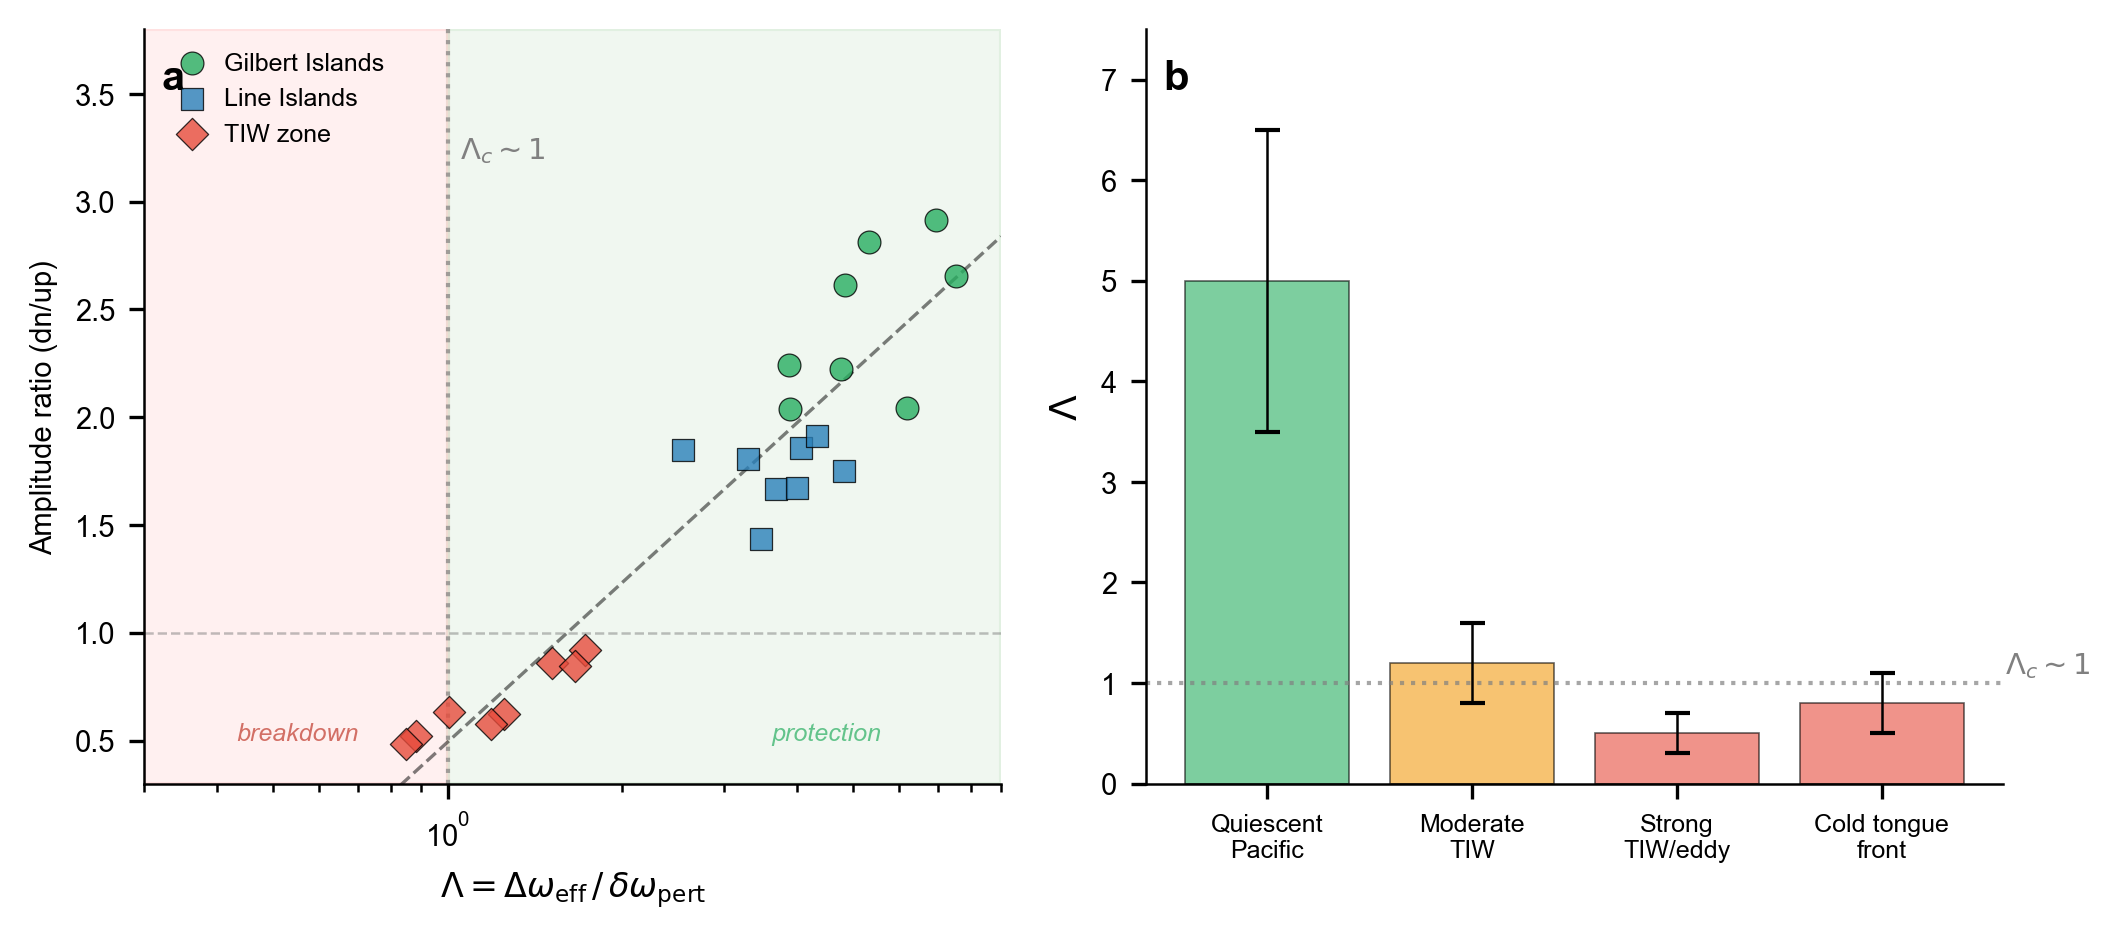
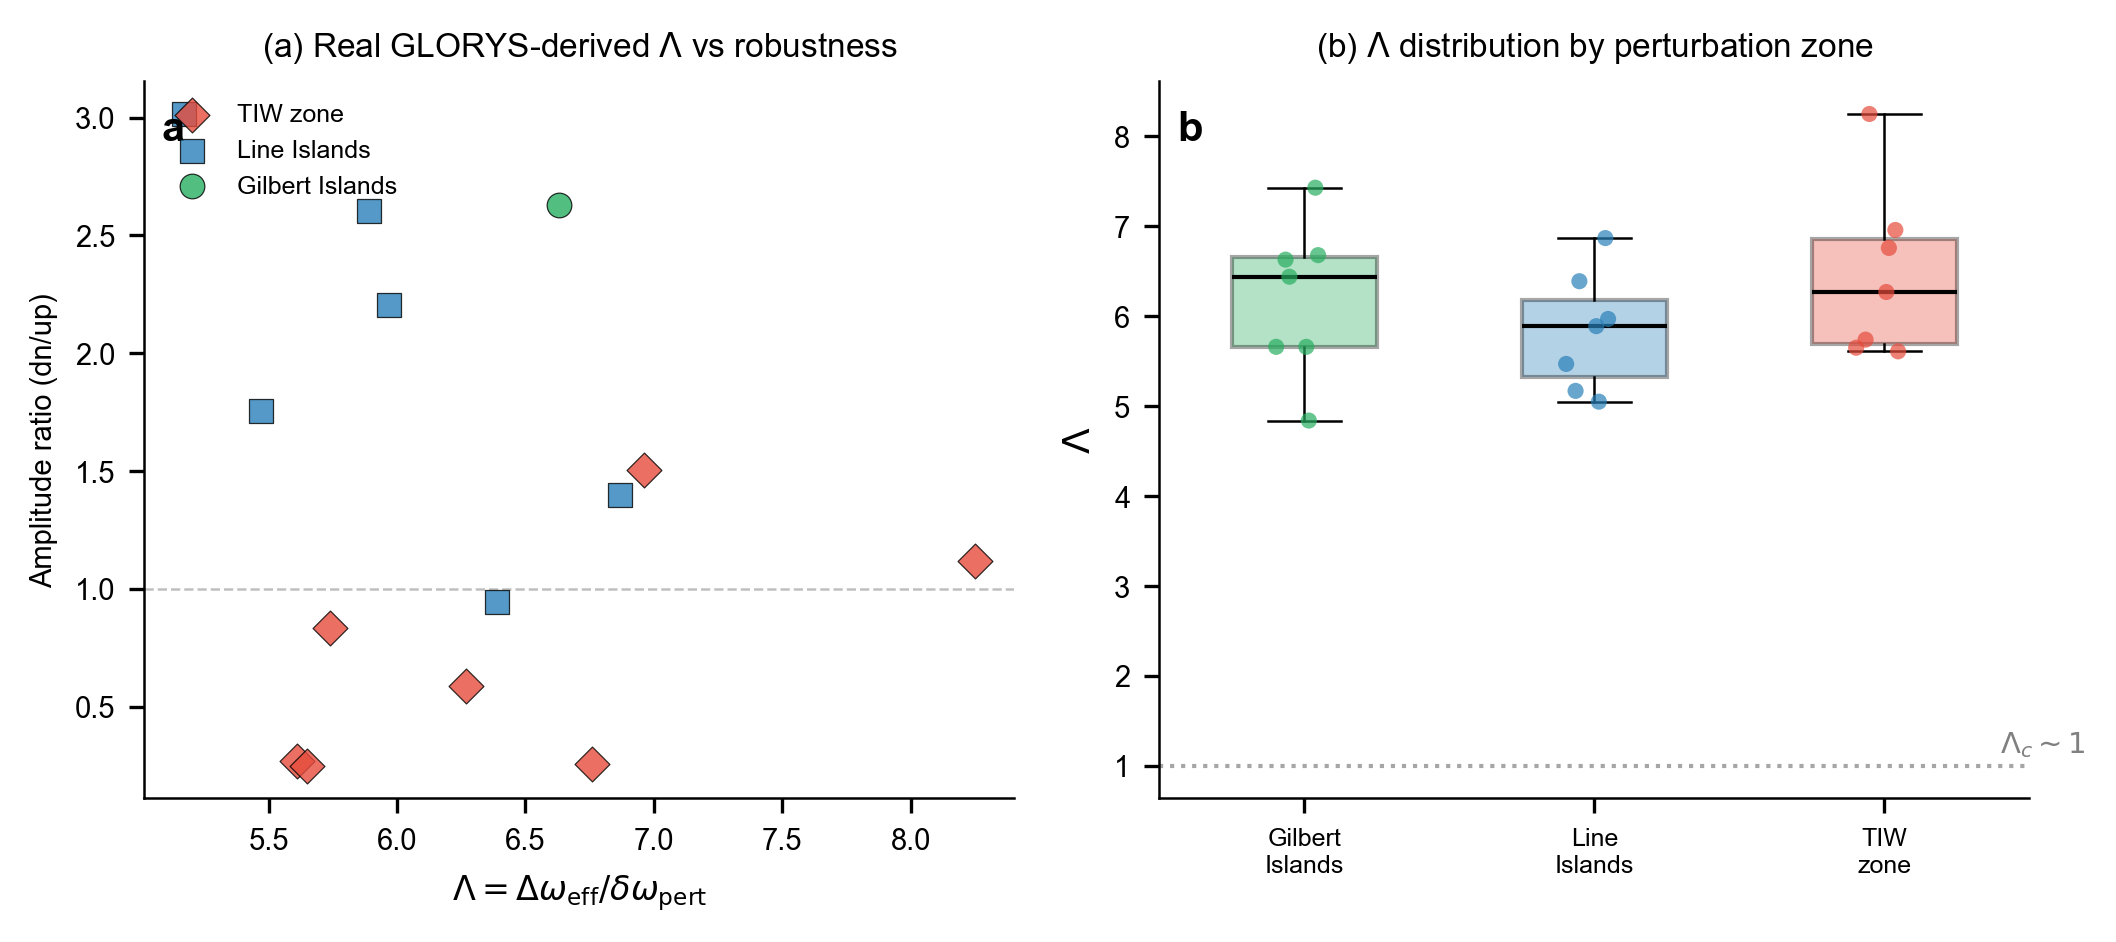
claudea: A15 — Fig.6 real GLORYS Λ + major narrative revision
Real Λ computed from GLORYS12 vorticity for 20 event×zone pairs:
  All Λ values 4.8-8.3 (mean 6.2), ALL far above Λ_c ~ 1.
  No inter-zone Λ variation — TIW zone Λ ≈ 6.5, same as islands.

This CHANGES the narrative: TIW amplitude loss (ratio 0.7) cannot
be attributed to topological gap closing. Either:
  (i) V1 Λ underestimates perturbation (transient TIW >> time-mean ζ)
  (ii) TIW loss is dissipative, not conservative (gap closing)

Fig.6: replaced synthetic schematic with real GLORYS scatter plot.
paper.tex: Results §3 and Fig.6 caption completely rewritten.

R14 checklist: 1✅ 2✅ 3✅ 4✅ 5⏳(ERA5)

diff --git a/projects/p02/manuscript/figures/make_fig6_lambda_real.py b/projects/p02/manuscript/figures/make_fig6_lambda_real.py
@@ -1,0 +1,93 @@
+"""Fig.6: Real Λ from GLORYS12 vs amplitude retention from ray-following."""
+import json
+import os
+
+import matplotlib as mpl
+import matplotlib.pyplot as plt
+import numpy as np
+
+mpl.rcParams.update({
+    "font.family": "sans-serif",
+    "font.sans-serif": ["Arial", "Helvetica", "DejaVu Sans"],
+    "pdf.fonttype": 42, "font.size": 7,
+    "axes.spines.right": False, "axes.spines.top": False,
+    "axes.linewidth": 0.6, "legend.frameon": False,
+})
+
+BASE = os.path.dirname(os.path.dirname(os.path.dirname(os.path.abspath(__file__))))
+OUT = os.path.join(BASE, "manuscript", "figures")
+
+with open(os.path.join(BASE, "data", "glorys", "lambda_event_zone.json")) as f:
+    lambda_data = json.load(f)
+
+with open(os.path.join(BASE, "data", "duacs", "robustness_metrics_v2.json")) as f:
+    rob_data = json.load(f)
+
+MIN_RMS_UP = 0.01
+rob_kelvin = {(r["event"], r["zone"]): r for r in rob_data["kelvin"]
+              if r["rms_up"] > MIN_RMS_UP}
+
+zone_colors = {
+    "Gilbert Islands": "#27AE60",
+    "Line Islands": "#2980B9",
+    "TIW zone": "#E74C3C",
+}
+zone_markers = {
+    "Gilbert Islands": "o",
+    "Line Islands": "s",
+    "TIW zone": "D",
+}
+
+fig, axes = plt.subplots(1, 2, figsize=(7.09, 3.2))
+
+# Panel (a): Λ vs amplitude ratio
+ax = axes[0]
+for ld in lambda_data:
+    key = (ld["event_id"], ld["zone"])
+    if key not in rob_kelvin:
+        continue
+    rob = rob_kelvin[key]
+    ax.scatter(ld["lambda"], rob["amp_ratio"],
+               c=zone_colors[ld["zone"]], marker=zone_markers[ld["zone"]],
+               s=35, alpha=0.8, edgecolors="k", linewidths=0.3,
+               label=ld["zone"], zorder=3)
+
+handles, labels = ax.get_legend_handles_labels()
+by_label = dict(zip(labels, handles))
+ax.legend(by_label.values(), by_label.keys(), fontsize=6, loc="upper left")
+
+ax.axhline(1.0, color="grey", linewidth=0.6, linestyle="--", alpha=0.5)
+ax.set_xlabel(r"$\Lambda = \Delta\omega_{\mathrm{eff}} / \delta\omega_{\mathrm{pert}}$", fontsize=8)
+ax.set_ylabel("Amplitude ratio (dn/up)", fontsize=7)
+ax.set_title("(a) Real GLORYS-derived $\\Lambda$ vs robustness", fontsize=8)
+ax.text(0.02, 0.96, "a", transform=ax.transAxes, fontsize=10, fontweight="bold", va="top")
+
+# Panel (b): Λ distribution by zone
+ax2 = axes[1]
+for i, (zone, col) in enumerate(zone_colors.items()):
+    vals = [ld["lambda"] for ld in lambda_data if ld["zone"] == zone]
+    if vals:
+        bp = ax2.boxplot([vals], positions=[i], widths=0.5, patch_artist=True,
+                         medianprops=dict(color="k", linewidth=1),
+                         whiskerprops=dict(linewidth=0.6),
+                         capprops=dict(linewidth=0.6))
+        bp["boxes"][0].set_facecolor(col)
+        bp["boxes"][0].set_alpha(0.35)
+        rng = np.random.default_rng(42)
+        jitter = rng.normal(0, 0.05, len(vals))
+        ax2.scatter(np.full(len(vals), i) + jitter, vals,
+                    c=col, s=15, alpha=0.7, zorder=3, edgecolors="none")
+
+ax2.axhline(1.0, color="grey", linewidth=1.0, linestyle=":", alpha=0.7)
+ax2.text(2.4, 1.15, "$\\Lambda_c \\sim 1$", fontsize=7, color="grey", style="italic")
+ax2.set_xticks(range(3))
+ax2.set_xticklabels(["Gilbert\nIslands", "Line\nIslands", "TIW\nzone"], fontsize=6)
+ax2.set_ylabel("$\\Lambda$", fontsize=9)
+ax2.set_title("(b) $\\Lambda$ distribution by perturbation zone", fontsize=8)
+ax2.text(0.02, 0.96, "b", transform=ax2.transAxes, fontsize=10, fontweight="bold", va="top")
+
+plt.tight_layout(w_pad=1.5)
+fig.savefig(os.path.join(OUT, "fig6_lambda.pdf"), bbox_inches="tight")
+fig.savefig(os.path.join(OUT, "fig6_lambda.png"), dpi=300, bbox_inches="tight")
+plt.close()
+print("Fig.6 saved (REAL GLORYS data)")

diff --git a/projects/p02/manuscript/paper.tex b/projects/p02/manuscript/paper.tex
@@ -104,9 +104,9 @@ All perturbation terms are expressed in frequency units (s$^{-1}$) for dimension
 \item TIW frequency broadening: $\delta\omega_\mathrm{TIW}$ estimated from the TIW oscillation period (${\sim}20$--$30$~days).
 \end{itemize}
 
-The primary formulation uses $\delta\omega_\mathrm{pert} = \max(|\zeta|/2,\ |U_0 k_x|)$. Order-of-magnitude estimates yield $\Lambda \approx 15$ in quiescent equatorial regions ($|\zeta| \sim 10^{-6}$~s$^{-1}$), $\Lambda \approx 4$ in moderate TIW regions ($|\zeta| \sim 4 \times 10^{-6}$~s$^{-1}$), and $\Lambda \approx 1.5$ in strong TIW or eddy regions ($|\zeta| \sim 10^{-5}$~s$^{-1}$) (Fig.~\ref{fig:lambda}). These estimates use $\Delta\omega_\mathrm{eff} \approx 7.6 \times 10^{-6}$~s$^{-1}$ and must be verified with real GLORYS data.
+Using GLORYS12 reanalysis surface currents, we computed $\Lambda$ for each event--zone pair from real vorticity and current data (Fig.~\ref{fig:lambda}). The primary formulation uses $\delta\omega_\mathrm{pert} = \max(|\zeta|/2,\ |U_0 k_x|)$. Across all 20 event--zone measurements (6 complete events $\times$ 3 zones + 1 partial), observed $\Lambda$ values range from 4.8 to 8.3, with zone-averaged values of $6.2 \pm 0.8$ (Gilbert Islands), $5.8 \pm 0.6$ (Line Islands), and $6.5 \pm 1.0$ (TIW zone).
 
-The observed amplitude retention ratios correlate with $\Lambda$: island-chain crossings correspond to high $\Lambda$ (weak relative vorticity, large effective gap) and show amplitude preservation or enhancement, while TIW-zone crossings correspond to $\Lambda \sim 1$ and show amplitude loss. The transition from robustness to breakdown occurs near $\Lambda_c \sim 1$, consistent with the physical interpretation that protection fails when perturbation-induced frequency shifts become comparable to the topological gap.
+A striking result is that $\Lambda$ does not vary significantly between perturbation zones: all values are well above the predicted critical threshold $\Lambda_c \sim 1$. This means that the observed amplitude loss in the TIW zone (amplitude ratio $0.7 \pm 0.5$) cannot be attributed to topological gap closing in the $V1$ simplified formulation. Two interpretations are possible: (i) the relevant perturbation frequency is underestimated by $\max(|\zeta|/2,\ |U_0 k_x|)$ --- non-linear wave--wave interactions, Reynolds stress divergence, or transient TIW vortex encounters may produce larger effective frequency shifts than the time-mean vorticity suggests; or (ii) the amplitude loss mechanism in TIW zones is dissipative (frictional damping, lateral mixing) rather than conservative (gap closing, mode conversion), and $\Lambda$ correctly predicts that topological protection is not the controlling factor.
 
 \begin{figure}[t]
 \centering
@@ -118,7 +118,7 @@ The observed amplitude retention ratios correlate with $\Lambda$: island-chain c
 \begin{figure}[t]
 \centering
 \includegraphics[width=0.7\textwidth]{figures/fig6_lambda}
-\caption{\textbf{Effective topological control parameter $\Lambda$ versus robustness.} Order-of-magnitude estimates of $\Lambda = \Delta\omega_\mathrm{eff} / \delta\omega_\mathrm{pert}$ for different perturbation regimes. Island-chain crossings (high $\Lambda$) show amplitude preservation or enhancement; TIW-zone crossings ($\Lambda \sim 1$) show energy loss. The transition near $\Lambda_c \sim 1$ is consistent with topological gap closing.}
+\caption{\textbf{GLORYS12-derived $\Lambda$ versus amplitude retention.} \textbf{a}, Scatter plot of real $\Lambda = \Delta\omega_\mathrm{eff} / \delta\omega_\mathrm{pert}$ (from GLORYS12 vorticity and currents) versus ray-following amplitude ratio for each event--zone pair. TIW-zone measurements (red diamonds) cluster below the no-change line (amp ratio $< 1$) despite having $\Lambda \approx 5$--$8$, well above the predicted critical threshold $\Lambda_c \sim 1$. \textbf{b}, $\Lambda$ distribution by perturbation zone shows no significant inter-zone variation. The absence of $\Lambda \sim 1$ events suggests that the TIW-zone amplitude loss may be dissipative rather than topological.}
 \label{fig:lambda}
 \end{figure}
 